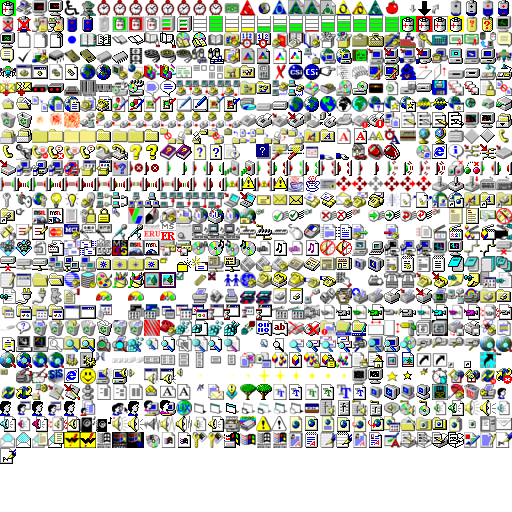
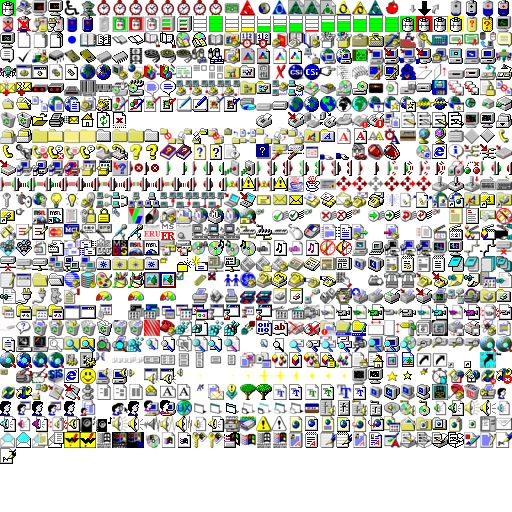
Syntax fixups and desktop-1995 bump.

Changed region(s): [[0.0625, 0.2188, 0.5, 0.25], [0.5312, 0.2188, 0.5625, 0.25]]

diff --git a/src/static/desktop.js b/src/static/desktop.js
@@ -52,7 +52,7 @@ var associations = {
         'iconY': 288,
         'opener': function( e ) {
             var winFolder = $('#desktop').explorer95( 'open', { 'caption': e.data.name, 'id': e.data.winID, 'icoImg': 'icons-w95-16x16.png', 'icoX': 112, 'icoY': 144 } );
-            populateFolder( winFolder, e.data.name, e.data.data.children );
+            populateFolder( winFolder, e.data.name, e.data.children );
         }
     },
     'notepad': {
@@ -93,7 +93,15 @@ var associations = {
         'iconX': 96,
         'iconY': 736,
         'opener': function( e ) {
-            var winFolder = $('#desktop').browser95( 'open', { 'id': e.data.winID, 'icoImg': 'icons-w95-16x16.png', 'icoX': 64, 'icoY': 368, 'url': 'http://google.com' } );
+            var buttonImgs = {
+                'open': {'icoImg': 'icons-w95-16x16.png', 'icoX': 48, 'icoY': 128 },
+                'print': {'icoImg': 'icons-w95-16x16.png', 'icoX': 64, 'icoY': 128 },
+                'refresh': {'icoImg': 'icons-w95-16x16.png', 'icoX': 112, 'icoY': 128 },
+                'stop': {'icoImg': 'icons-w95-16x16.png', 'icoX': 128, 'icoY': 128 },
+                'mail': {'icoImg': 'icons-w95-16x16.png', 'icoX': 80, 'icoY': 128 },
+                'home': {'icoImg': 'icons-w95-16x16.png', 'icoX': 96, 'icoY': 128 }
+            };
+            var winFolder = $('#desktop').browser95( 'open', { 'id': e.data.winID, 'icoImg': 'icons-w95-16x16.png', 'icoX': 64, 'icoY': 368, 'url': 'http://google.com', 'buttonImgs': buttonImgs } );
         }
     },
     'cdplayer': {
